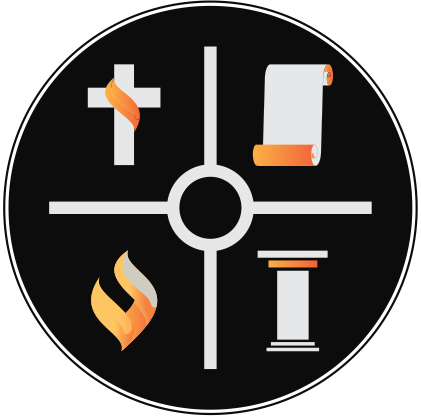
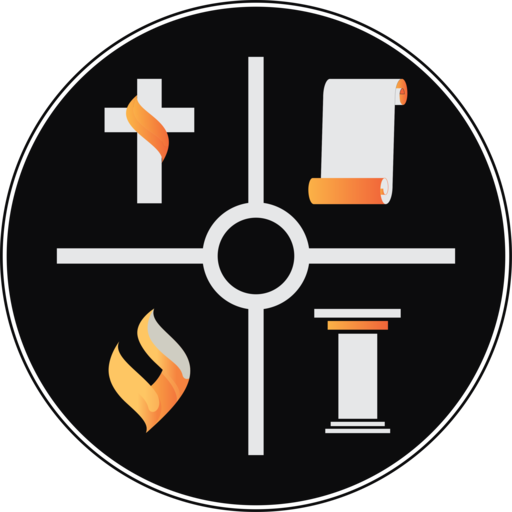
Fix: Window dragging, Windows distribution, Google Drive sync & UI Polish
- Fixed window dragging jitter by using absolute screen coordinates.
- Improved Windows popup behavior (hides to tray instead of exiting).
- Configured CI/CD workflows (Win/Mac/Linux) to inject Google Client Secrets for sync.
- Cleaned up build.gradle.kts (removed legacy launch4j task).
- Updated Linux dependencies (added libx11-6, zlib1g).
- Replaced logo/icon with high-quality versions and increased UI display size to reduce aliasing.

diff --git a/composeApp/src/jvmMain/kotlin/br/com/irse/verse/platform/JvmGoogleDriveProvider.kt b/composeApp/src/jvmMain/kotlin/br/com/irse/verse/platform/JvmGoogleDriveProvider.kt
@@ -38,30 +38,103 @@ class JvmGoogleDriveProvider : CloudSyncProvider {
 
     private var driveService: Drive? = null
 
-    private val dataStoreDir = File(System.getProperty("user.home"), ".bereia-verse/tokens")
+    // Diretório de configuração padrão do app
+    private val appConfigDir: File by lazy {
+        val os = System.getProperty("os.name").lowercase()
+        val baseDir = if (os.contains("win")) {
+            File(System.getenv("APPDATA"), "BereiaVerse")
+        } else {
+            File(System.getProperty("user.home"), ".local/share/bereia-verse")
+        }
+        if (!baseDir.exists()) baseDir.mkdirs()
+        baseDir
+    }
+
+    private val dataStoreDir by lazy { File(appConfigDir, "tokens") }
 
     init {
         // Tenta re-autorizar silenciosamente se já tiver token
-        if (dataStoreDir.exists() && dataStoreDir.listFiles()?.isNotEmpty() == true) {
-            try {
-                // Em um app real, faríamos a inicialização do serviço aqui
-                // _isAuthorized.value = true
-            } catch (e: Exception) {}
+        try {
+             if (dataStoreDir.exists() && dataStoreDir.listFiles()?.isNotEmpty() == true) {
+                 // Inicializa o serviço em background se houver tokens
+                 // Não podemos chamar authorize() aqui pois ele abre o browser se o token estiver inválido/expirado
+                 // Mas podemos tentar reconstruir o serviço
+                 restoreSession()
+             }
+        } catch (e: Exception) {
+            e.printStackTrace()
+        }
+    }
+
+    private fun restoreSession() {
+        try {
+            val secretsStream = getClientSecretsStream() ?: return
+            val HTTP_TRANSPORT = GoogleNetHttpTransport.newTrustedTransport()
+            val clientSecrets = GoogleClientSecrets.load(JSON_FACTORY, InputStreamReader(secretsStream))
+
+            val flow = GoogleAuthorizationCodeFlow.Builder(
+                HTTP_TRANSPORT, JSON_FACTORY, clientSecrets, SCOPES
+            )
+            .setDataStoreFactory(FileDataStoreFactory(dataStoreDir))
+            .setAccessType("offline")
+            .build()
+
+            // Carrega credencial armazenada (userId="user")
+            val credential = flow.loadCredential("user")
+            
+            if (credential != null && (credential.refreshToken != null || credential.expiresInSeconds == null || credential.expiresInSeconds > 60)) {
+                // Se tiver refresh token, ele atualiza automaticamente quando precisar
+                driveService = Drive.Builder(HTTP_TRANSPORT, JSON_FACTORY, credential)
+                    .setApplicationName(APPLICATION_NAME)
+                    .build()
+                _isAuthorized.value = true
+            }
+        } catch (e: Exception) {
+            e.printStackTrace()
+            _isAuthorized.value = false
+        }
+    }
+    
+    private fun getClientSecretsStream(): java.io.InputStream? {
+        // 1. Tenta carregar do recurso embutido (JAR) - Ideal para Produção
+        val resourceStream = object {}.javaClass.getResourceAsStream("/client_secrets.json")
+        if (resourceStream != null) return resourceStream
+
+        // 2. Fallback para arquivos externos (Desenvolvimento/Override)
+        val possibilities = listOf(
+            File(appConfigDir, "client_secrets.json"),
+            File(System.getProperty("user.dir"), "client_secrets.json"),
+            File("client_secrets.json")
+        )
+        
+        return possibilities.find { it.exists() }?.inputStream()
+    }
+
+    private fun logError(message: String, error: Throwable? = null) {
+        try {
+            val logFile = File(appConfigDir, "auth_debug.txt")
+            val timestamp = java.time.LocalDateTime.now()
+            val stackTrace = error?.stackTraceToString() ?: ""
+            logFile.appendText("[$timestamp] $message\n$stackTrace\n\n")
+        } catch (e: Exception) {
+            e.printStackTrace()
         }
     }
 
     override suspend fun authorize() = withContext(Dispatchers.IO) {
         try {
+            logError("Starting authorization process...")
             val HTTP_TRANSPORT = GoogleNetHttpTransport.newTrustedTransport()
             
-            // Carrega credenciais (Placeholder ou Arquivo)
-            // Para o usuário: Ele deve colocar o client_secrets.json na pasta de recursos
-            val secretsFile = File("client_secrets.json")
-            if (!secretsFile.exists()) {
-                throw Exception("Arquivo client_secrets.json não encontrado. Configure no Google Cloud Console.")
+            val secretsStream = getClientSecretsStream()
+            if (secretsStream == null) {
+                val msg = "client_secrets.json NOT FOUND. Searched in: Resources, ${appConfigDir.absolutePath}, ${System.getProperty("user.dir")}"
+                logError(msg)
+                throw Exception("Arquivo de credenciais (client_secrets.json) não encontrado.\nVerifique o arquivo auth_debug.txt na pasta do aplicativo.")
             }
 
-            val clientSecrets = GoogleClientSecrets.load(JSON_FACTORY, secretsFile.reader())
+            logError("Secrets file found. Loading...")
+            val clientSecrets = GoogleClientSecrets.load(JSON_FACTORY, InputStreamReader(secretsStream))
             
             val flow = GoogleAuthorizationCodeFlow.Builder(
                 HTTP_TRANSPORT, JSON_FACTORY, clientSecrets, SCOPES
@@ -70,16 +143,29 @@ class JvmGoogleDriveProvider : CloudSyncProvider {
             .setAccessType("offline")
             .build()
 
-            val credential = AuthorizationCodeInstalledApp(flow, LocalServerReceiver()).authorize("user")
+            logError("Flow built. Attempting to authorize...")
             
+            // Custom receiver that logs the URL if browser fails
+            val receiver = LocalServerReceiver.Builder().setPort(8888).build()
+            
+            val credential = try {
+                AuthorizationCodeInstalledApp(flow, receiver).authorize("user")
+            } catch (e: Exception) {
+                logError("AuthorizationCodeInstalledApp failed", e)
+                throw e
+            }
+            
+            logError("Authorization successful. Building Drive service...")
             driveService = Drive.Builder(HTTP_TRANSPORT, JSON_FACTORY, credential)
                 .setApplicationName(APPLICATION_NAME)
                 .build()
             
             _isAuthorized.value = true
+            logError("Service ready.")
         } catch (e: Exception) {
-            e.printStackTrace()
+            logError("CRITICAL AUTHORIZATION ERROR", e)
             _isAuthorized.value = false
+            throw e 
         }
     }
 
@@ -92,6 +178,8 @@ class JvmGoogleDriveProvider : CloudSyncProvider {
     override suspend fun uploadNote(note: Note) = withContext(Dispatchers.IO) {
         val service = driveService ?: return@withContext
         try {
+            _syncState.value = CloudSyncState.SYNCING
+            
             val fileMetadata = com.google.api.services.drive.model.File()
             fileMetadata.name = "${note.id}.json"
             fileMetadata.parents = listOf("appDataFolder")
@@ -104,7 +192,7 @@ class JvmGoogleDriveProvider : CloudSyncProvider {
             // Verifica se o arquivo já existe para atualizar (update) ou criar (insert)
             val existingFiles = service.files().list()
                 .setSpaces("appDataFolder")
-                .setQ("name = '${note.id}.json'")
+                .setQ("name = '${note.id}.json' and trashed = false")
                 .execute()
 
             if (existingFiles.files.isEmpty()) {
@@ -113,20 +201,26 @@ class JvmGoogleDriveProvider : CloudSyncProvider {
                 service.files().update(existingFiles.files[0].id, null, mediaContent).execute()
             }
             tempFile.delete()
+            
+            _syncState.value = CloudSyncState.SUCCESS
         } catch (e: Exception) {
             e.printStackTrace()
+            _syncState.value = CloudSyncState.ERROR
         }
     }
 
     override suspend fun downloadNotes(): List<Note> = withContext(Dispatchers.IO) {
         val service = driveService ?: return@withContext emptyList()
         try {
+            _syncState.value = CloudSyncState.SYNCING
+            
             val result = service.files().list()
                 .setSpaces("appDataFolder")
+                .setQ("trashed = false and name contains '.json'")
                 .setFields("files(id, name)")
                 .execute()
 
-            result.files.mapNotNull { file ->
+            val notes = result.files.mapNotNull { file ->
                 val outputStream = java.io.ByteArrayOutputStream()
                 service.files().get(file.id).executeMediaAndDownloadTo(outputStream)
                 try {
@@ -135,8 +229,12 @@ class JvmGoogleDriveProvider : CloudSyncProvider {
                     null
                 }
             }
+            
+            _syncState.value = CloudSyncState.SUCCESS
+            notes
         } catch (e: Exception) {
             e.printStackTrace()
+            _syncState.value = CloudSyncState.ERROR
             emptyList()
         }
     }
@@ -144,16 +242,21 @@ class JvmGoogleDriveProvider : CloudSyncProvider {
     override suspend fun deleteNote(noteId: String) = withContext(Dispatchers.IO) {
         val service = driveService ?: return@withContext
         try {
+            _syncState.value = CloudSyncState.SYNCING
+            
             val existingFiles = service.files().list()
                 .setSpaces("appDataFolder")
-                .setQ("name = '$noteId.json'")
+                .setQ("name = '$noteId.json' and trashed = false")
                 .execute()
 
             existingFiles.files.forEach { file ->
                 service.files().delete(file.id).execute()
             }
+            
+            _syncState.value = CloudSyncState.SUCCESS
         } catch (e: Exception) {
             e.printStackTrace()
+            _syncState.value = CloudSyncState.ERROR
         }
     }
 }

diff --git a/composeApp/src/jvmMain/kotlin/br/com/irse/verse/main.kt b/composeApp/src/jvmMain/kotlin/br/com/irse/verse/main.kt
@@ -416,7 +416,13 @@ fun runApplication() {
     }
 
     Window(
-        onCloseRequest = { exitApplication() },
+        onCloseRequest = { 
+            if (actualIsTraySupported) {
+                isVisible = false
+            } else {
+                exitApplication() 
+            }
+        },
         title = "IRSE | Bereia Verse",
         state = state,
         icon = icon,
@@ -442,7 +448,7 @@ fun runApplication() {
                 if (viewModel.value != null) {
                     App(
                         viewModel = viewModel.value!!,
-                        onClose = { if (actualIsTraySupported) isVisible = false else if (!shouldBeTransparent) isVisible = false else isMiniMode = true },
+                        onClose = { if (actualIsTraySupported) isVisible = false else isMiniMode = true },
                         onHeightRequest = { height ->
                             if (!isMiniMode) {
                                 targetHeight = height
@@ -450,20 +456,37 @@ fun runApplication() {
                         },
                         isTransparent = shouldBeTransparent,
                         headerModifier = Modifier.pointerInput(Unit) {
-                            detectDragGestures { change, dragAmount ->
+                            var startWindowX = 0
+                            var startWindowY = 0
+                            var startMouseX = 0
+                            var startMouseY = 0
+                            
+                            detectDragGestures(
+                                onDragStart = {
+                                    val awtWindow = window
+                                    startWindowX = awtWindow.x
+                                    startWindowY = awtWindow.y
+                                    
+                                    val mousePos = MouseInfo.getPointerInfo().location
+                                    startMouseX = mousePos.x
+                                    startMouseY = mousePos.y
+                                },
+                                onDragEnd = {
+                                    val awtWindow = window
+                                    val density = this.density
+                                    state.position = WindowPosition(
+                                        (awtWindow.x / density).dp,
+                                        (awtWindow.y / density).dp
+                                    )
+                                }
+                            ) { change, _ ->
                                 change.consume()
-                                val awtWindow = window
-                                val windowPos = awtWindow.location
                                 
-                                // Converte o dragAmount (pixels) para a posição da janela
-                                val newX = (windowPos.x + dragAmount.x).toInt()
-                                val newY = (windowPos.y + dragAmount.y).toInt()
+                                val currentMousePos = MouseInfo.getPointerInfo().location
+                                val deltaX = currentMousePos.x - startMouseX
+                                val deltaY = currentMousePos.y - startMouseY
                                 
-                                awtWindow.setLocation(newX, newY)
-                                
-                                // Sincroniza o estado do Compose usando density para converter pixels de volta para DP corretamente
-                                val density = this.density
-                                state.position = WindowPosition((newX / density).dp, (newY / density).dp)
+                                window.setLocation(startWindowX + deltaX, startWindowY + deltaY)
                             }
                         }
                     )
@@ -486,8 +509,12 @@ fun MiniWidget(onClick: () -> Unit, isTransparent: Boolean = true) {
         
         Surface(color = surfaceColor, modifier = Modifier.fillMaxSize()) {
             Box(contentAlignment = Alignment.Center, modifier = Modifier.fillMaxSize().padding(4.dp)) {
-                Box(modifier = Modifier.size(56.dp).clip(CircleShape).background(VerseColors.PrimaryAmber.copy(alpha = 0.8f)).clickable { onClick() }) {
-                    Image(painter = painterResource(Res.drawable.logo), contentDescription = null, modifier = Modifier.size(32.dp).align(Alignment.Center))
+                Box(modifier = Modifier.size(64.dp).clip(CircleShape).background(VerseColors.PrimaryAmber.copy(alpha = 0.8f)).clickable { onClick() }) {
+                    Image(
+                        painter = painterResource(Res.drawable.logo), 
+                        contentDescription = null, 
+                        modifier = Modifier.size(40.dp).align(Alignment.Center)
+                    )
                 }
             }
         }

diff --git a/composeApp/src/commonMain/kotlin/br/com/irse/verse/App.kt b/composeApp/src/commonMain/kotlin/br/com/irse/verse/App.kt
@@ -191,7 +191,11 @@ fun App(
                                 .pointerHoverIconHand()
                                 .clickable { currentTab = AppTab.ABOUT }
                         ) {
-                            Image(painter = painterResource(Res.drawable.logo), contentDescription = null, modifier = Modifier.size(36.dp))
+                            Image(
+                                painter = painterResource(Res.drawable.logo), 
+                                contentDescription = null, 
+                                modifier = Modifier.size(48.dp).clip(CircleShape)
+                            )
                             Spacer(modifier = Modifier.width(10.dp))
                             Column {
                                 Text(text = Strings.APP_TITLE, style = MaterialTheme.typography.titleMedium, fontWeight = FontWeight.Bold, color = VerseColors.HeaderContentColor, fontSize = 16.sp)
